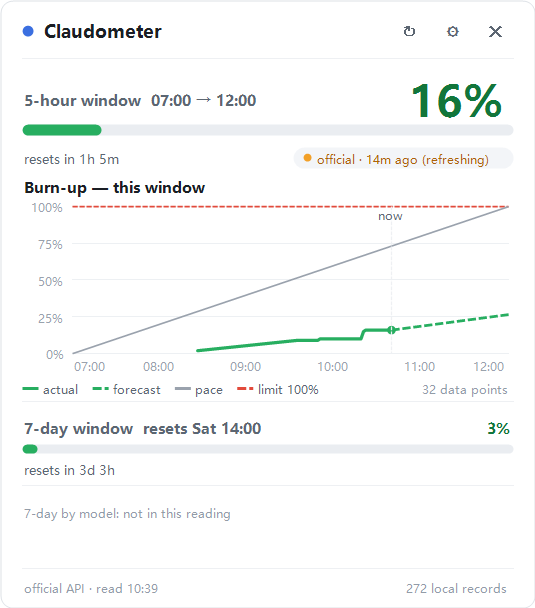
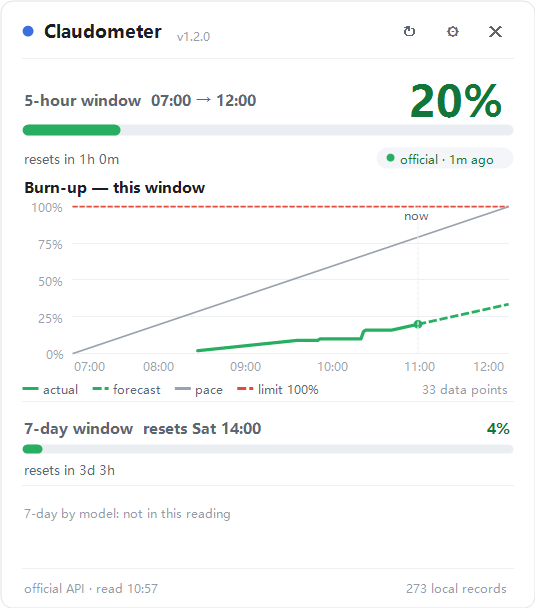
Show the version next to the title in the panel
Now that it self-updates, surface which build you're on at a glance.

diff --git a/src/PanelForm.cs b/src/PanelForm.cs
@@ -167,6 +167,8 @@ namespace TokenMeter
                 g.SmoothingMode = sm;
             }
             Str(g, "Claudometer", _f11b, Theme.Text, Lx + S(15), y - S(1));
+            float titleW = g.MeasureString("Claudometer", _f11b).Width;
+            Str(g, "v" + Updater.Version, _f7, Theme.Faint, Lx + S(15) + titleW + S(4), y + S(5));
 
             int bx = Rx - S(28);
             bx = IconButton(g, "close", "✕", bx, y - S(3));
